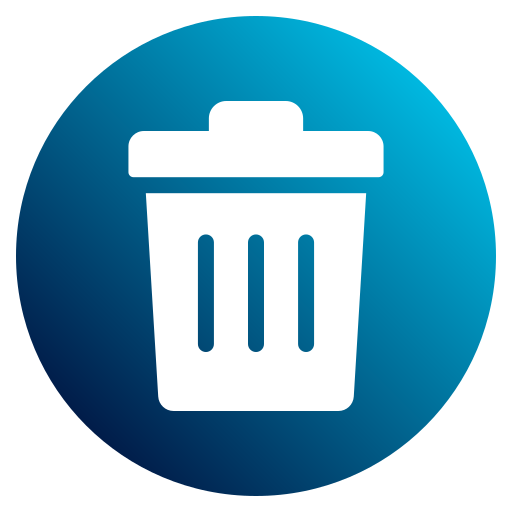
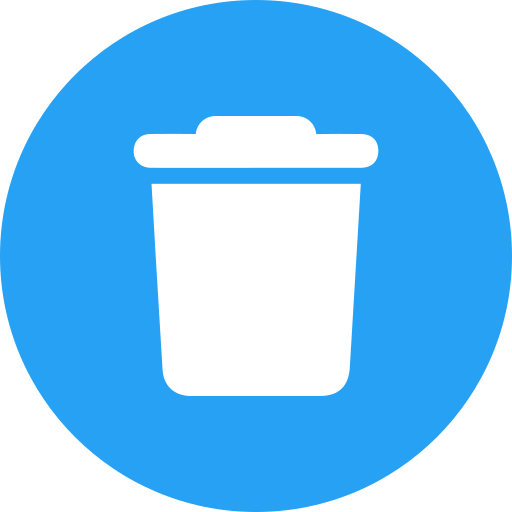
updated delete button

diff --git a/public/js/local/inventory/inventory-api.js b/public/js/local/inventory/inventory-api.js
@@ -46,7 +46,7 @@ document.addEventListener("DOMContentLoaded", function () {
                     <td>${list.batch_number}</td>
                     <td>${list.product_quantity}</td>
                     <td>${list.expiration}</td>
-                    <td><img src="/img/local/delete.png" style="height: 24px;" onclick="deleteInventoryItem('${list.product_id}')"></td>
+                    <td><img src="/img/local/uninstall.png" style="height: 28px;" onclick="deleteInventoryItem('${list.product_id}')"></td>
                 </tr>`;
         });
     } else {
